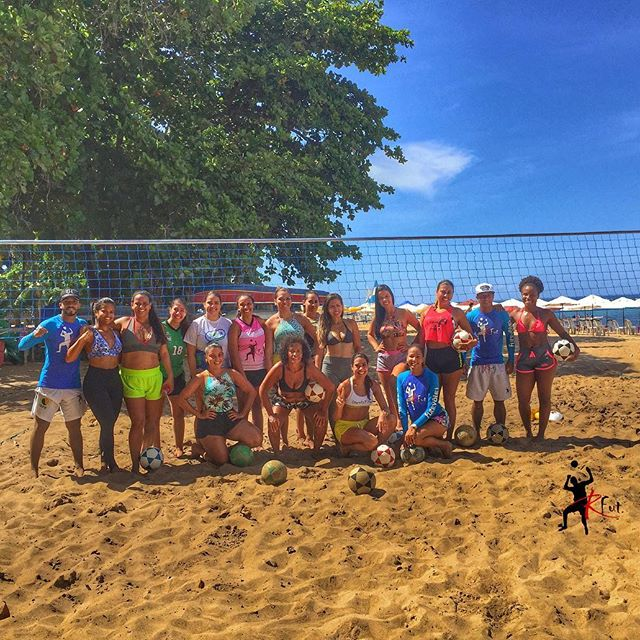
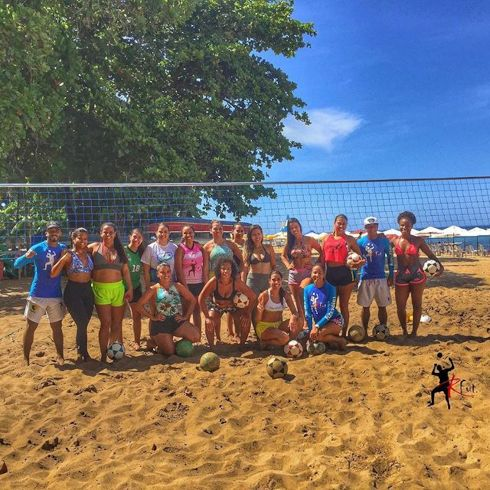
feat: adjust layout

diff --git a/index.html b/index.html
@@ -78,11 +78,11 @@
     <nav>
       <div class="container">
         <div class="box menu" id="menu">
-          <a href="#page-top" class="menu__logo">
+          <a href="#page-top" class="menu__logo js-close-menu">
             <img
               src="./assets/img/rfuteam-logo.png"
               alt="Logo Rfuteam"
-              class="img__brand"
+              class="img--responsive"
             />
           </a>
           <input class="menu__btn" type="checkbox" id="menu__btn" />
@@ -90,8 +90,10 @@
             <span class="menu__navicon"></span>
           </label>
           <ul class="menu__options">
-            <li><a href="#arena">Arenas</a></li>
-            <li><a href="#cta">Agende uma aula</a></li>
+            <li><a href="#arena" class="js-close-menu">Arenas</a></li>
+            <li>
+              <a href="#cta" class="js-close-menu">Experimente uma aula</a>
+            </li>
           </ul>
         </div>
       </div>
@@ -159,7 +161,7 @@
               <img
                 src="./assets/img/turma-rfuteam-arena-abaete.jpg"
                 alt="Turma Rfuteam da Arena Abaeté"
-                class="card__img"
+                class="card__img img--responsive"
               />
               <span class="card__link">Abaeté</span>
             </div>
@@ -167,7 +169,7 @@
               <img
                 src="./assets/img/turma-rfuteam-arena-cassas.jpg"
                 alt="Turma Rfuteam da Arena Cassas"
-                class="card__img"
+                class="card__img img--responsive"
               />
               <span class="card__link">Cassas</span>
             </div>
@@ -175,7 +177,7 @@
               <img
                 src="./assets/img/turma-rfuteam-arena-itapua.jpg"
                 alt="Turma Rfuteam da Arena Itapuã"
-                class="card__img"
+                class="card__img img--responsive"
               />
               <span class="card__link">Itapuã</span>
             </div>
@@ -183,7 +185,7 @@
               <img
                 src="./assets/img/turma-rfuteam-arena-le-parc.jpg"
                 alt="Turma Rfuteam da Arena Le Parc"
-                class="card__img"
+                class="card__img img--responsive"
               />
               <span class="card__link">Le Parc</span>
             </div>
@@ -289,7 +291,7 @@
                 <img
                   src="./assets/img/globo-esporte-ba.jpg"
                   alt="Logo Globo Esporte BA"
-                  class="media__img"
+                  class="img--responsive"
                 />
               </a>
             </div>
@@ -302,7 +304,7 @@
                 <img
                   src="./assets/img/itapua-city.png"
                   alt="Logo Itapuã City"
-                  class="media__img"
+                  class="img--responsive"
                 />
               </a>
             </div>
@@ -336,7 +338,7 @@
               </a>
               <a
                 target="_blank"
-                href="https://bit.ly/2LoLSgp"
+                href="https://bit.ly/3ckFaYD"
                 class="contact__link"
               >
                 <i class="fab fa-2x fa-whatsapp"></i>
@@ -350,7 +352,7 @@
               <img
                 src="./assets/img/rfuteam-logo.png"
                 alt="Logo Rfuteam"
-                class="img__brand"
+                class="img--responsive"
               />
               <div class="credit">
                 <p>Rfuteam &copy; Todos os direitos reservados.</p>
@@ -358,7 +360,7 @@
                   Produzido por:
                   <a
                     target="_blank"
-                    href="https://bit.ly/2LoLSgp"
+                    href="https://bit.ly/2PrPViL"
                     class="credit__link"
                   >
                     Washington Júnior.

diff --git a/assets/styles/rfuteam.css b/assets/styles/rfuteam.css
@@ -45,6 +45,12 @@ a {
   text-decoration: none;
 }
 
+/* Images ========================= */
+.img--responsive {
+  max-width: 100%;
+  height: auto;
+}
+
 /* Header ========================= */
 header {
   min-height: 75vh;
@@ -144,10 +150,6 @@ section {
 }
 
 .card {
-  display: flex;
-  flex-direction: column;
-  justify-content: center;
-  align-items: center;
   background-color: var(--color-white);
   box-shadow: 0 0.3rem 0.3rem rgba(0, 0, 0, 0.25),
     0 0.3rem 0.3rem rgba(0, 0, 0, 0.3);
@@ -159,9 +161,6 @@ section {
 
 .card__img {
   border-radius: 0.7rem 0.7rem 0 0;
-  width: 100%;
-  max-width: 640px;
-  height: auto;
 }
 
 .card__link {
@@ -262,11 +261,6 @@ section {
   }
 }
 
-.media__img {
-  max-width: 100%;
-  height: auto;
-}
-
 /* Footer ========================= */
 footer {
   background-image: linear-gradient(
@@ -346,12 +340,6 @@ footer {
   .credit {
     order: -1;
   }
-}
-
-.img__brand {
-  width: 100%;
-  max-width: 50px;
-  height: auto;
 }
 
 /* Responsive ========================= */

diff --git a/assets/js/app.js b/assets/js/app.js
@@ -43,6 +43,10 @@ const scrollToIdOnClick = (event) => {
   smoothScrollTo(0, to);
 };
 
+const closeMenu = () => {
+  document.querySelector(".menu .menu__btn").checked = false;
+};
+
 document.addEventListener("DOMContentLoaded", () => {
   const menuItems = document.querySelectorAll(
     '.menu .menu__options li a[href^="#"]'
@@ -62,4 +66,9 @@ document.addEventListener("DOMContentLoaded", () => {
       const to = getScrollTopByHref(element);
       smoothScrollTo(0, to);
     });
+
+  const menuLinks = document.querySelectorAll(".js-close-menu");
+  menuLinks.forEach((item) => {
+    item.addEventListener("click", closeMenu);
+  });
 });
